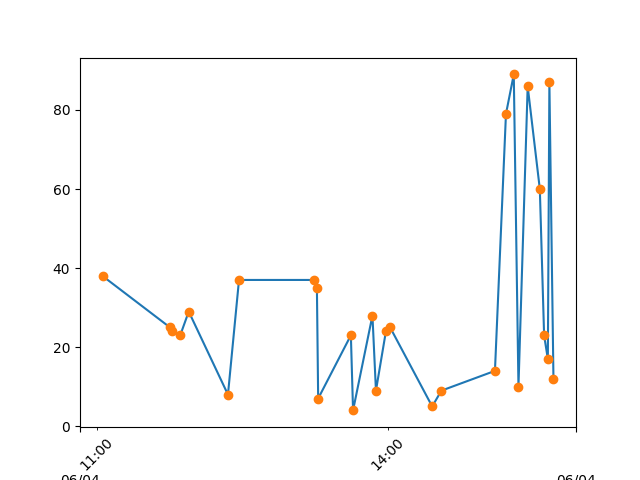
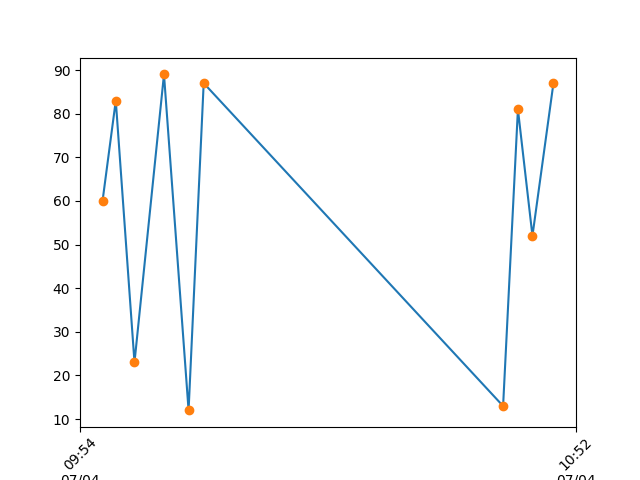
added stock api for img locations

diff --git a/Python/mysite/graph/templates/personal/test.html b/Python/mysite/graph/templates/personal/test.html
@@ -1,12 +1,14 @@
 {% extends "personal/heading.html" %}
 
 {% block content %}
+	{% for d in stock %}
 		<tr>
           <!-- <td><img src="https://img.tesco.com/Groceries/pi/{{c.6}}/{{c.0}}/IDShot_540x540.jpg" class="responsive-img" style='max-height:100px;' alt="face"></td> -->
           <td></td>
           <td></td>
           <td></td>
           {% load static %}
-          <td><img src="{% static 'img/StockHistory-15R2A.png' %}" class="responsive-img" style='max-height:150px;' alt="face"></td>
+          <td><img src="{% static ""%}{{d}}" class="responsive-img" style='max-height:150px;' alt="face"></td>
         </tr>
+    {% endfor%}
 {% endblock %} 

diff --git a/Python/InsertDB.py b/Python/InsertDB.py
@@ -12,17 +12,17 @@ def insertShelfRecord(singleshelf):
     timestamp = datetime.datetime.fromtimestamp(ts).strftime('%Y-%m-%d %H:%M:%S')
      
     # Insert row 
-    cursor.execute('''INSERT INTO shelfGridTable(shelfLocation, TPNB, unitsOfStock, percentageFull, timestamp, stockgraph)
-                      VALUES(?,?,?,?,?)''', (singleshelf.location, singleshelf.tpnb, singleshelf.unitsOccupied, singleshelf.volumePercentFull, timestamp, singleshelf.salesimglocation))
+    cursor.execute('''INSERT INTO shelfGridTable(shelfLocation, TPNB, unitsOfStock, percentageFull, timestamp, stockgraph, priorityscore)
+                      VALUES(?,?,?,?,?,?,?)''', (singleshelf.location, singleshelf.tpnb, singleshelf.unitsOccupied, singleshelf.volumePercentFull, timestamp, singleshelf.salesimglocation, singleshelf.priorityscore))
     db.commit()
 
 def printShelfDB():
     db = sqlite3.connect(CreateDB.dbName)
     cursor = db.cursor()
     
-    cursor.execute('''SELECT id, shelfLocation, TPNB, unitsOfStock, percentageFull, timestamp FROM shelfGridTable''')
+    cursor.execute('''SELECT id, shelfLocation, TPNB, unitsOfStock, percentageFull, timestamp, stockgraph, priorityscore FROM shelfGridTable''')
     all_rows = cursor.fetchall()
-    print("ID: shelfLocation, TPNB, unitsOfStock, percentageFull, timestamp")
+    print("ID: shelfLocation, TPNB, unitsOfStock, percentageFull, timestamp, stock graph, priorityscore")
     for row in all_rows:
         # row[0] returns the first column in the query (name), row[1] returns email column.
-        print('{0} : {1}, {2}, {3}, {4}, {5}'.format(row[0], row[1], row[2], row[3], row[4], row[5]))
+        print('{0} : {1}, {2}, {3}, {4}, {5}, {6}, {7}'.format(row[0], row[1], row[2], row[3], row[4], row[5], row[6], row[7]))

diff --git a/Python/WebPage/API.py b/Python/WebPage/API.py
@@ -42,10 +42,11 @@ def startfunction():
                 
                 print(singleshelf.location, "is", singleshelf.volumePercentFull*100, "% full and can fit", singleshelf.unitsOfSpace, "more units of X")
                 
-                heatmap.MakeHeatMap(singleshelf, XYGridList)           
-                   
+                heatmap.MakeHeatMap(singleshelf, XYGridList)                           
                 insertDB.insertShelfRecord(singleshelf)
                 heatmap.MakeSalesGraph(singleshelf)
+                
+                insertDB.printShelfDB()            
             #insertDB.printShelfDB()
             prioritisedFillList = stockpercentages.calculateFillListOrder(ShelfList, ProductList)
             return prioritisedFillList
@@ -89,9 +90,25 @@ def startfunction():
     class stock_graph(Resource):
         def get(self):
             
-            a = "img/StockHistory-15R2A.png"
+            db = sqlite3.connect(CreateDB.dbName)
+            cursor = db.cursor()
             
-            return a
+            cursor.execute('''SELECT id, shelfLocation, TPNB, unitsOfStock, percentageFull, timestamp, stockgraph, priorityscore FROM shelfGridTable''')
+            all_rows = cursor.fetchall()
+            a = []
+            
+            for row in all_rows:
+                a.append('{0}'.format(row[1]))
+                
+            b = "img/StockHistory-15R2A.png"
+            a = a[-12:]
+            print (a)
+            c=[]
+            
+            for shelfLocation in a:
+                c.append("img/StockHistory-" + shelfLocation + ".png")
+            
+            return c
 
     api.add_resource(list_priority, '/list/')
     api.add_resource(gap_scan, '/gap/')

diff --git a/Python/mysite/gapscan/views.py b/Python/mysite/gapscan/views.py
@@ -1,11 +1,12 @@
 from django.shortcuts import render
 from django.http import HttpResponse
 import http.client, urllib
+from ast import literal_eval as ast
 
 # Create your views here.
 def index(request):
     try:
-        content = urllib.request.urlopen("http://127.0.0.1:5000/gap/").read()
+        content = urllib.request.urlopen("http://127.0.0.1:5000/gap/").read().decode('utf-8')
     except urllib.error.HTTPError as err:
         if err.code == 500:
             content = "not found"
@@ -17,5 +18,7 @@ def index(request):
     except urllib.error.URLError as err:
         print ("Some other error happened:", err.reason) 
     
-    return render(request,'personal/gap.html',{'gap':content})
+    test = ast(content)
+    
+    return render(request,'personal/gap.html',{'gap':test})
 

diff --git a/Python/mysite/graph/views.py b/Python/mysite/graph/views.py
@@ -5,7 +5,7 @@ import urllib
 # Create your views here.
 def index(request):
     try:
-        content = urllib.request.urlopen("http://127.0.0.1:5000/gap/").read()
+        content = urllib.request.urlopen("http://127.0.0.1:5000/stock/").read()
     except urllib.error.HTTPError as err:
         if err.code == 500:
             content = "not found"
@@ -17,4 +17,4 @@ def index(request):
     except urllib.error.URLError as err:
         print ("Some other error happened:", err.reason)
     
-    return render(request,'personal/test.html',{'welcome':HttpResponse("<h2>HEY!</h2>")})
+    return render(request,'personal/test.html',{'stock':content})

diff --git a/Python/Graphing/Heatmap.py b/Python/Graphing/Heatmap.py
@@ -105,7 +105,7 @@ def MakeSalesGraph(singleshelf):
     
     ax.xaxis.set_tick_params(which='major', pad=30)
     
-    file_string = "mysite/personal/static/img/StockHistory-" + singleshelf.location + ".png"
+    file_string = "mysite/graph/static/img/StockHistory-" + singleshelf.location + ".png"
     fig.savefig(file_string)
     
     web_string = "img/StockHistory-" + singleshelf.location + ".png"   

diff --git a/Python/CreateDB.py b/Python/CreateDB.py
@@ -14,4 +14,3 @@ def createDB():
             unitsOfStock INTEGER, percentageFull REAL, timestamp TEXT, stockgraph TEXT, priorityscore INTEGER) ''')
     db.commit()
     
-createDB()
